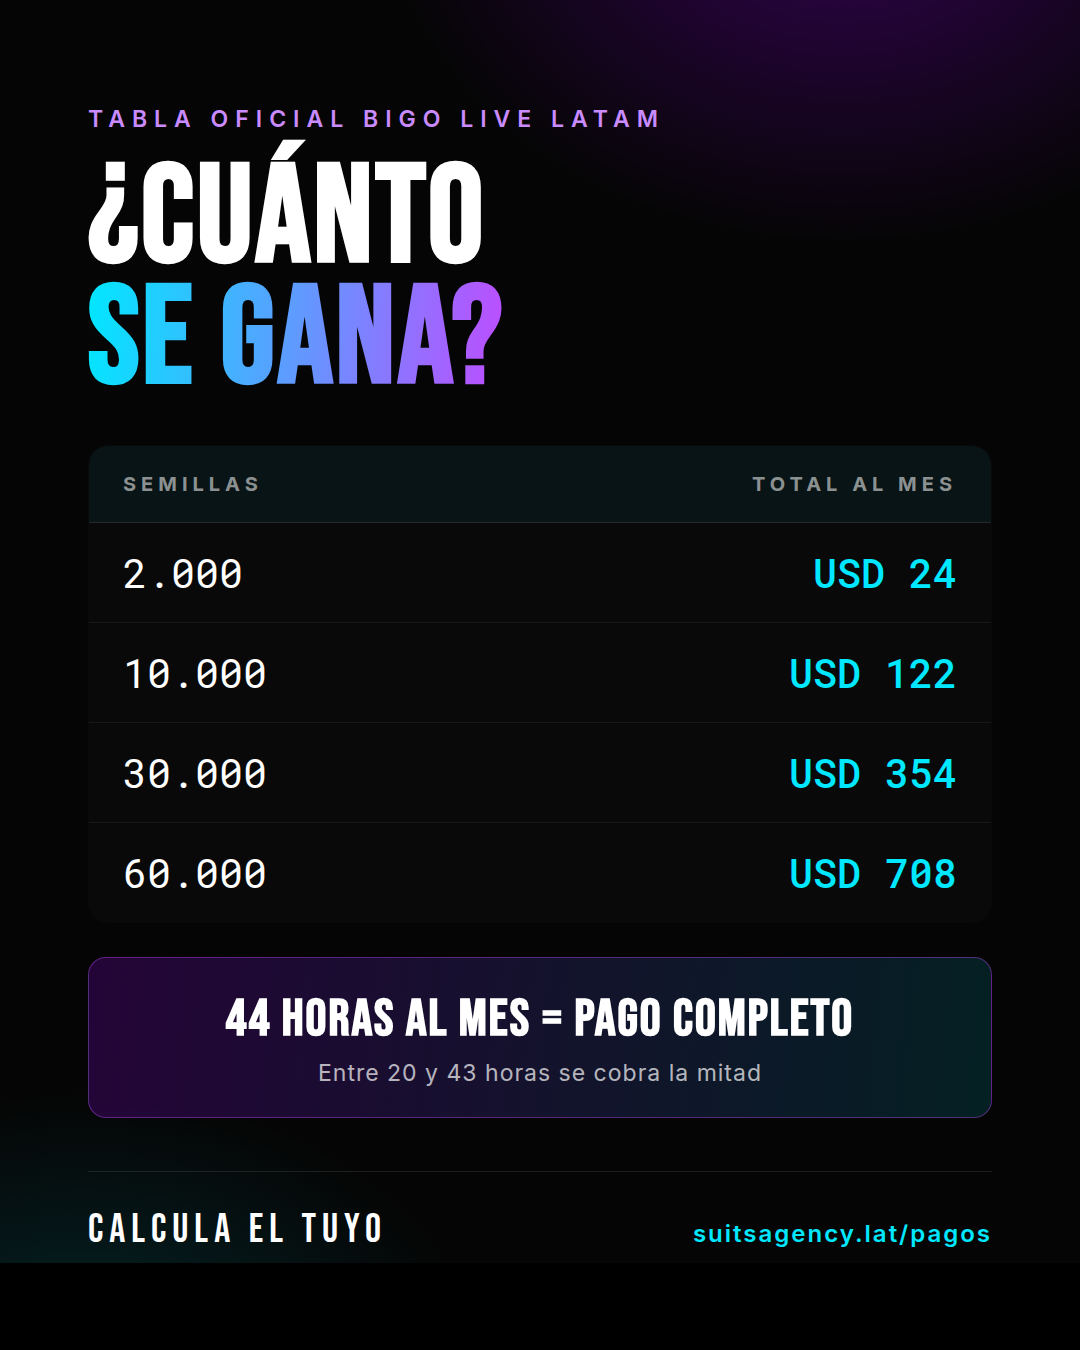
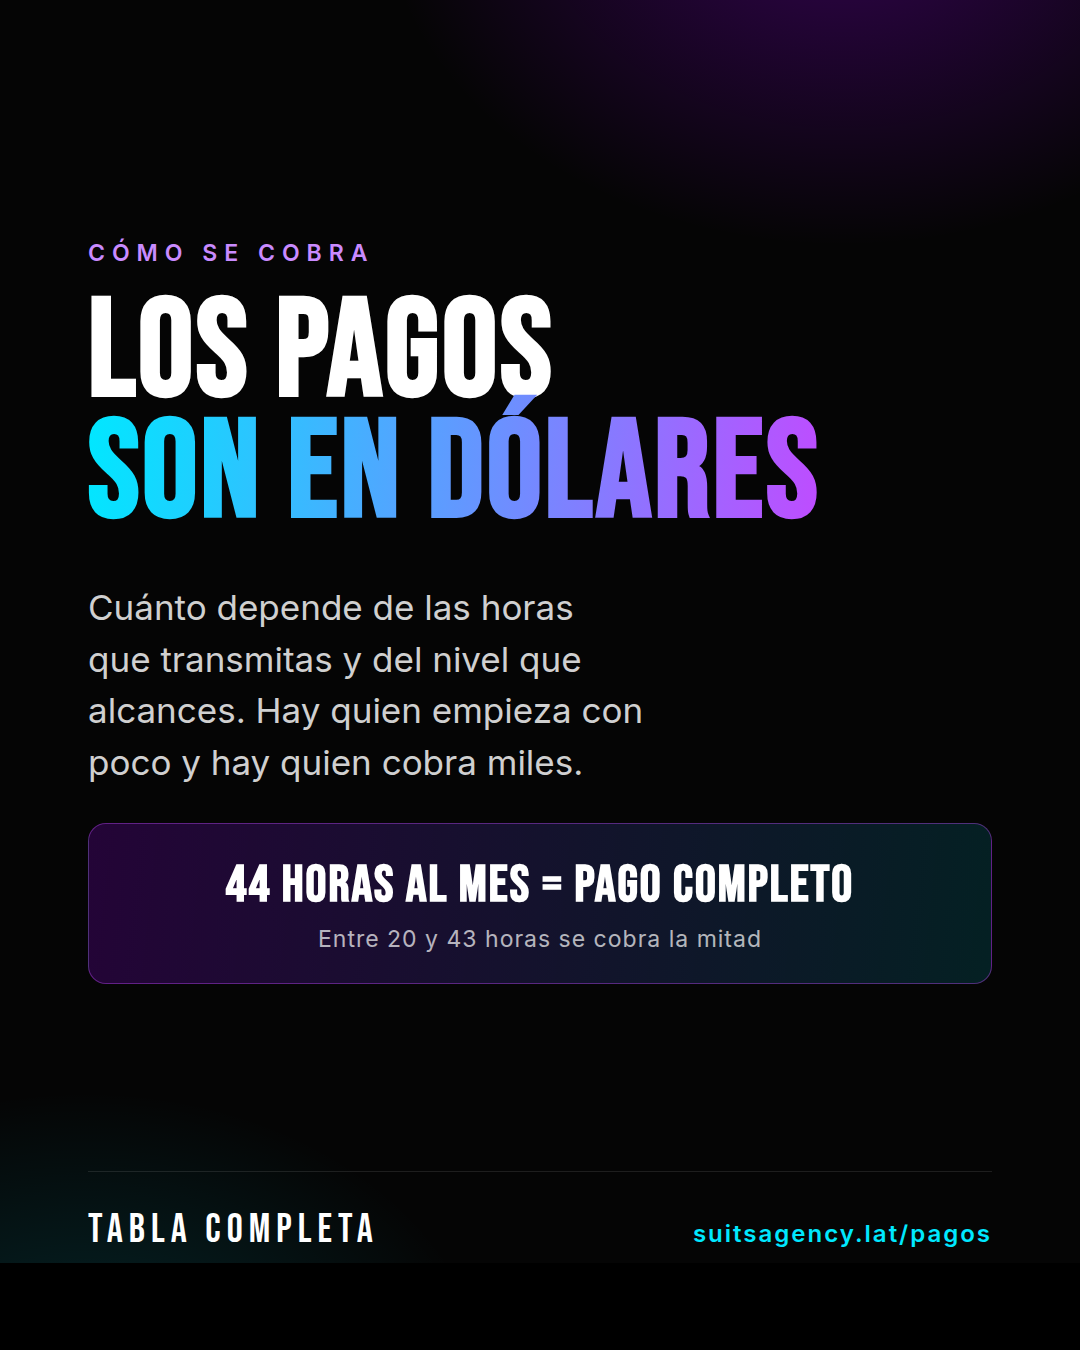
Sacar las cifras de la placa de pagos
La tabla de cuatro escalones parecia una planilla y en el feed nadie lee
planillas. Pero el motivo de fondo no es de diseño: lo que gana cada
emisor varia demasiado —algunos cobran unos pocos dolares y otros
miles—, asi que cualquier cifra suelta desinforma al que recien llega.
Y un numero grande en Instagram se lee como promesa de ingresos, que es
exactamente la sospecha que el resto de la grilla intenta desarmar.

Ahora la placa dice que los pagos son en dolares, explica de que depende
el monto y manda la tabla completa a /pagos/. Lo unico numerico que
queda es la regla de horas, que no promete plata: ordena expectativas.

De paso, el parrafo nuevo llevaba max-width en ch y caia en una columna
de siete lineas cortas que parecia una lista. Con 720px y text-wrap
balance entra en cuatro renglones parejos.

diff --git a/publicaciones/post-2-pagos.html b/publicaciones/post-2-pagos.html
@@ -3,33 +3,30 @@
 <head>
 <meta charset="UTF-8">
 <meta name="robots" content="noindex, nofollow">
-<title>Placa 2 — Cuánto se gana</title>
+<title>Placa 2 — Los pagos son en dólares</title>
 <link rel="stylesheet" href="fuentes.css">
 <link rel="stylesheet" href="posts.css">
 </head>
 <body>
 
-<!-- Las cifras salen de la tabla de /pagos/ (columna total = monedero +
-     remuneracion). Si se cambia la tabla del sitio, se cambia aca tambien. -->
+<!-- Sin cifras a proposito: lo que gana cada emisor varia demasiado y un
+     numero suelto en el feed se lee como promesa de ingresos. La tabla
+     completa vive en /pagos/, que es a donde manda el pie.
+
+     Lo unico numerico que queda es la regla de horas, que no promete
+     plata: ordena expectativas. -->
 <div class="placa">
 
     <div class="cuerpo">
 
-        <p class="sobretitulo">Tabla oficial Bigo Live LATAM</p>
+        <p class="sobretitulo">Cómo se cobra</p>
 
-        <h1 class="titulo">¿Cuánto<br><span class="neon">se gana?</span></h1>
+        <h1 class="titulo">Los pagos<br><span class="neon">son en dólares</span></h1>
 
-        <table class="tabla">
-            <thead>
-                <tr><th>Semillas</th><th>Total al mes</th></tr>
-            </thead>
-            <tbody>
-                <tr><td>2.000</td><td class="monto">USD 24</td></tr>
-                <tr><td>10.000</td><td class="monto">USD 122</td></tr>
-                <tr><td>30.000</td><td class="monto">USD 354</td></tr>
-                <tr><td>60.000</td><td class="monto">USD 708</td></tr>
-            </tbody>
-        </table>
+        <p class="parrafo">
+            Cuánto depende de las horas que transmitas y del nivel que
+            alcances. Hay quien empieza con poco y hay quien cobra miles.
+        </p>
 
         <div class="regla">
             <strong>44 horas al mes = pago completo</strong>
@@ -39,7 +36,7 @@
     </div>
 
     <div class="pie">
-        <span class="marca">Calcula el tuyo</span>
+        <span class="marca">Tabla completa</span>
         <span class="web">suitsagency.lat/pagos</span>
     </div>
 

diff --git a/publicaciones/posts.css b/publicaciones/posts.css
@@ -191,45 +191,24 @@ html, body {
 }
 
 /* --------------------------------------------------------------------------
-   Placa 2 — tabla de pagos
+   Placa 2 — los pagos son en dolares
+
+   Sin cifras a proposito. Lo que gana cada emisor varia demasiado —de unos
+   pocos dolares a miles— y poner un numero en el feed se lee como promesa
+   de ingresos, que es justo lo que despierta la sospecha de estafa.
    -------------------------------------------------------------------------- */
-.tabla {
-    width: 100%;
-    border-collapse: collapse;
-    margin-top: 44px;
-    background: var(--card-bg);
-    border: 1px solid var(--glass-border);
-    border-radius: 20px;
-    overflow: hidden;
-}
-
-.tabla thead th {
-    font-size: 20px;
-    font-weight: 700;
-    letter-spacing: 5px;
-    text-transform: uppercase;
-    color: rgba(255, 255, 255, .55);
-    padding: 26px 34px;
-    text-align: left;
-    background: rgba(0, 232, 255, .05);
-    border-bottom: 1px solid var(--glass-border);
-}
-
-.tabla thead th:last-child { text-align: right; }
-
-.tabla td {
-    font-family: var(--font-mono);
-    font-size: 40px;
-    padding: 23px 34px;
-    border-bottom: 1px solid rgba(255, 255, 255, .06);
-}
-
-.tabla tr:last-child td { border-bottom: 0; }
-
-.tabla td.monto {
-    text-align: right;
-    color: var(--accent-blue);
-    font-weight: 500;
+/* El ancho esta en px y no en ch a proposito: con ch el parrafo caia en
+   una columna de siete lineas cortas que parecia una lista. Con 720px
+   entra en tres renglones, que es como se lee de un vistazo. */
+.parrafo {
+    margin: 46px 0 0;
+    font-size: 35px;
+    line-height: 1.48;
+    color: rgba(255, 255, 255, .82);
+    max-width: 720px;
+    /* Reparte el largo de los renglones para que no quede una palabra
+       sola colgando en el ultimo. */
+    text-wrap: balance;
 }
 
 /* Caja de la regla de horas. El dato que mas preguntan. */

diff --git a/README.md b/README.md
@@ -550,11 +550,27 @@ subía el archivo a 895 KB para caracteres que no se usan.
 > (sin eso devuelve `.ttf` en vez de `.woff2`), se filtran los bloques
 > `/* latin */` y se reemplaza cada URL por su `data:font/woff2;base64,…`.
 
-### Las cifras salen de `/pagos/`
+### La placa de pagos no lleva cifras, y es a propósito
 
-La tabla de `post-2-pagos.html` usa la columna **total** (monedero +
-remuneración) del array `tiers` de `pagos/index.html`. **Si se actualiza
-la tabla del sitio, hay que actualizar la placa a mano:** no están atadas.
+`post-2-pagos.html` dice que se cobra en dólares y manda la tabla a
+`/pagos/`. **No muestra ningún monto.**
+
+La primera versión sí traía una tabla con cuatro escalones sacados del
+array `tiers` de `pagos/index.html`. Se descartó por dos motivos:
+
+1. Lo que gana cada emisor **varía muchísimo** —algunos cobran unos pocos
+   dólares y otros miles—, así que cualquier cifra suelta es engañosa
+   para alguien que recién llega.
+2. Un número grande en el feed se lee como **promesa de ingresos**, que es
+   justo lo que dispara la sospecha de estafa que el resto de la grilla
+   intenta desarmar.
+
+Lo único numérico que quedó es la regla de horas (44 h = pago completo).
+Esa no promete plata: ordena expectativas.
+
+> Si alguna vez se vuelve a poner una tabla, tener presente que **no está
+> atada a `/pagos/`**: hay que actualizarla a mano cuando cambie el sitio.
+> Los estilos de la tabla vieja están en el historial de git.
 
 La carpeta lleva `noindex, nofollow` y no está en el sitemap, igual que
 `/prueba/` y `/credencial/`.
